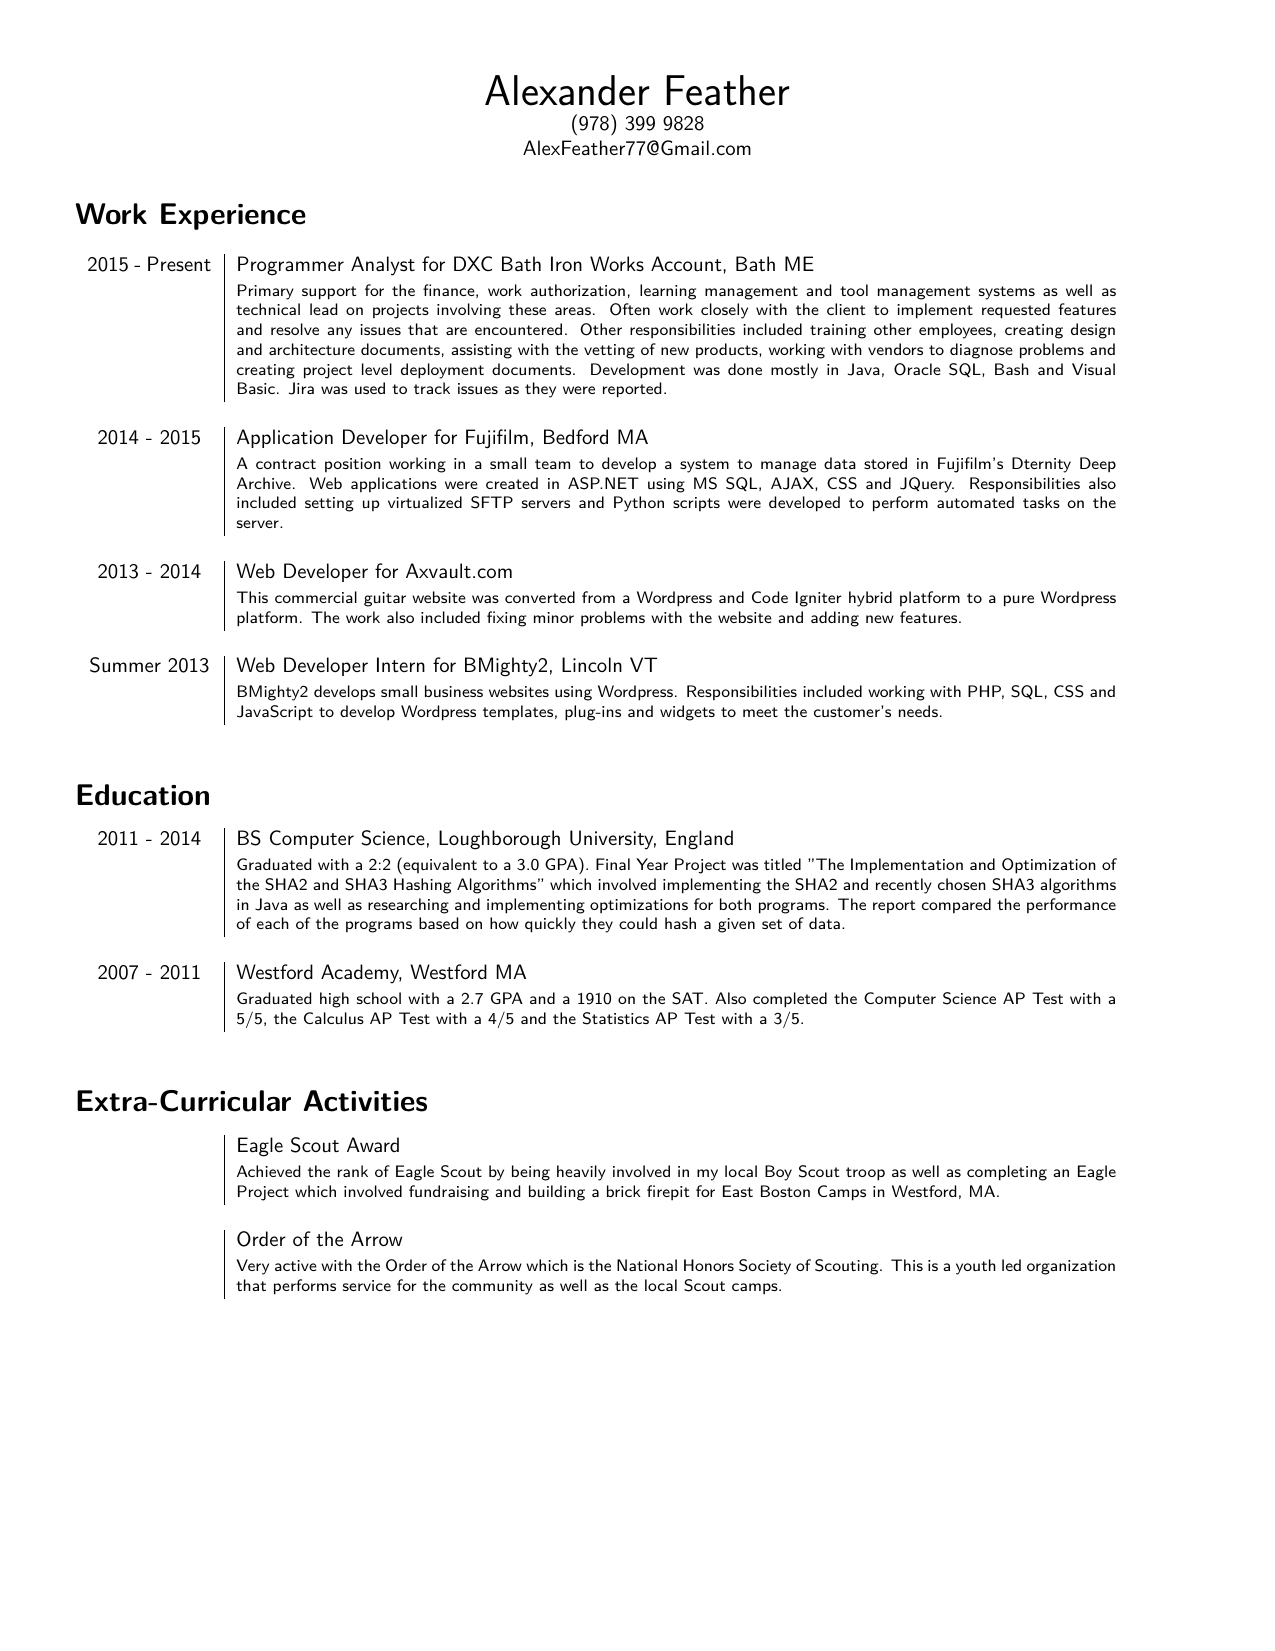
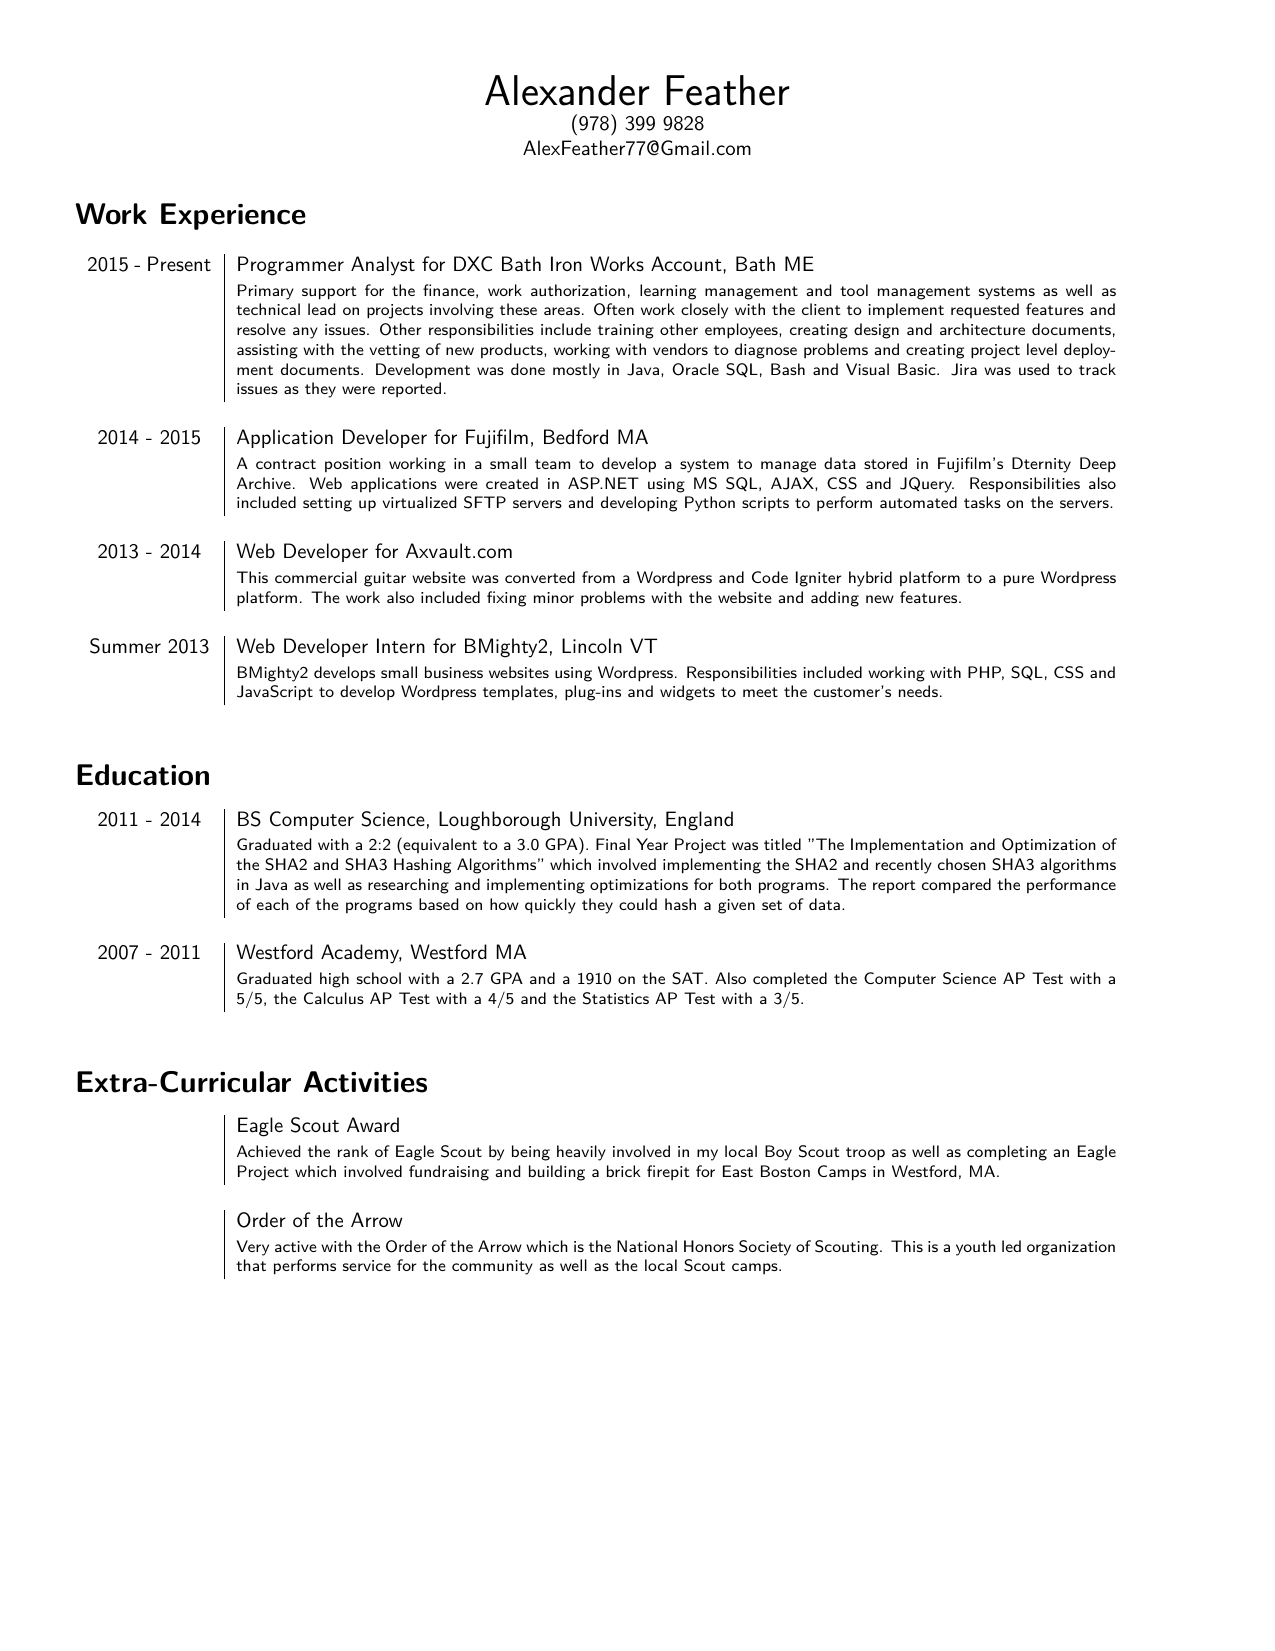
Updated Resume Files

diff --git a/Resume.tex b/Resume.tex
@@ -12,8 +12,8 @@
 
 \section*{\fontfamily{lmss}\selectfont Work Experience}
 \begin{tabular}{p{2.1cm}|p{14.9cm}}
-	2015 - Present & Programmer Analyst for DXC Bath Iron Works Account, Bath ME\\&\footnotesize{Primary support for the finance, work authorization, learning management and tool management systems as well as technical lead on projects involving these areas. Often work closely with the client to implement requested features and resolve any issues that are encountered. Other responsibilities included training other employees, creating design and architecture documents, assisting with the vetting of new products, working with vendors to diagnose problems and creating project level deployment documents. Development was done mostly in Java, Oracle SQL, Bash and Visual Basic. Jira was used to track issues as they were reported.}\\\multicolumn{2}{c}{} \\
-	\centering 2014 - 2015 & Application Developer for Fujifilm, Bedford MA\\&\footnotesize{A contract position working in a small team to develop a system to manage data stored in Fujifilm's Dternity Deep Archive. Web applications were created in ASP.NET using MS SQL, AJAX, CSS and JQuery. Responsibilities also included setting up virtualized SFTP servers and Python scripts were developed to perform automated tasks on the server.}\\\multicolumn{2}{c}{} \\
+	2015 - Present & Programmer Analyst for DXC Bath Iron Works Account, Bath ME\\&\footnotesize{Primary support for the finance, work authorization, learning management and tool management systems as well as technical lead on projects involving these areas. Often work closely with the client to implement requested features and resolve any issues. Other responsibilities include training other employees, creating design and architecture documents, assisting with the vetting of new products, working with vendors to diagnose problems and creating project level deployment documents. Development was done mostly in Java, Oracle SQL, Bash and Visual Basic. Jira was used to track issues as they were reported.}\\\multicolumn{2}{c}{} \\
+	\centering 2014 - 2015 & Application Developer for Fujifilm, Bedford MA\\&\footnotesize{A contract position working in a small team to develop a system to manage data stored in Fujifilm's Dternity Deep Archive. Web applications were created in ASP.NET using MS SQL, AJAX, CSS and JQuery. Responsibilities also included setting up virtualized SFTP servers and developing Python scripts to perform automated tasks on the servers.}\\\multicolumn{2}{c}{} \\
 	\centering 2013 - 2014 & Web Developer for Axvault.com\\&\footnotesize{This commercial guitar website was converted from a Wordpress and Code Igniter hybrid platform to a pure Wordpress platform. The work also included fixing minor problems with the website and adding new features.}\\\multicolumn{2}{c}{} \\
 	\centering Summer 2013 & Web Developer Intern for BMighty2, Lincoln VT\\&\footnotesize{BMighty2 develops small business websites using Wordpress. Responsibilities included working with PHP, SQL, CSS and JavaScript to develop Wordpress templates, plug-ins and widgets to meet the customer's needs.}\\\multicolumn{2}{c}{} \\
 \end{tabular}
